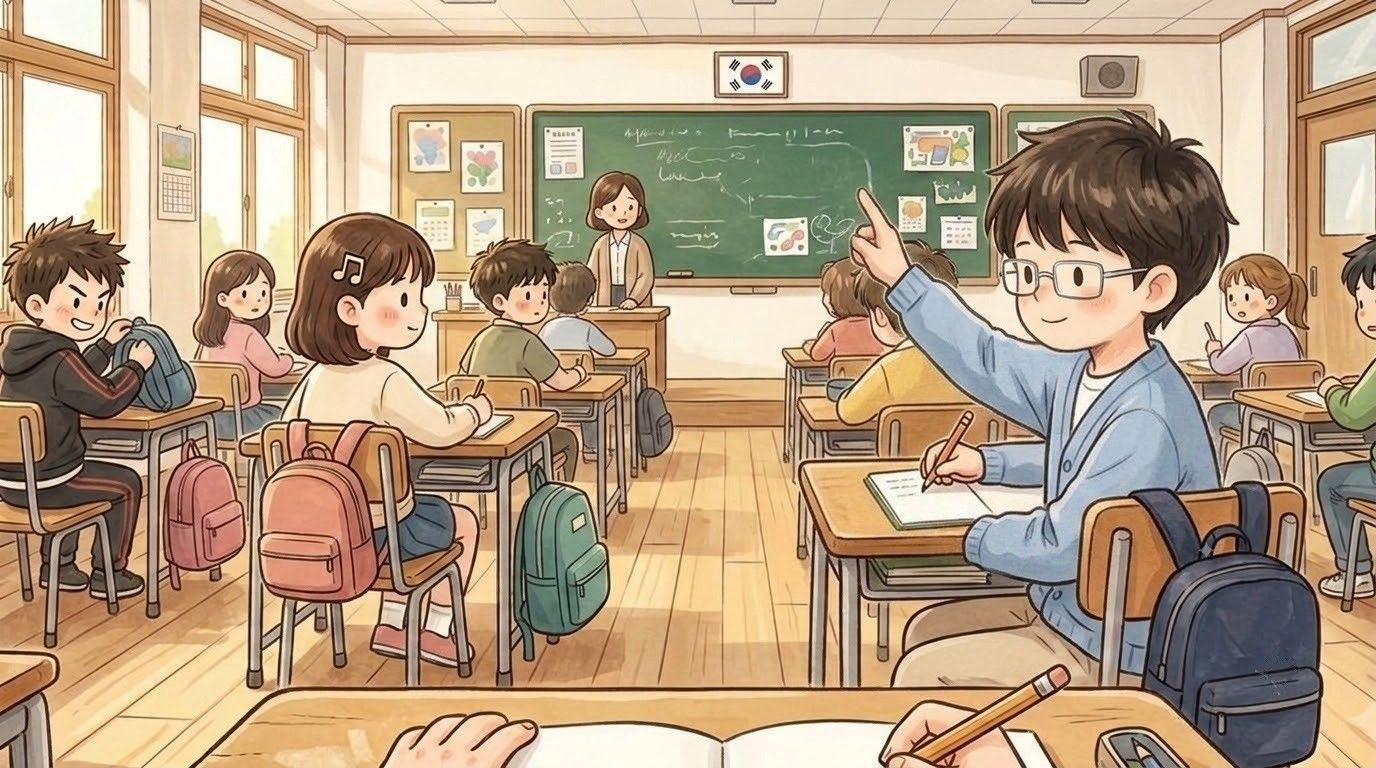
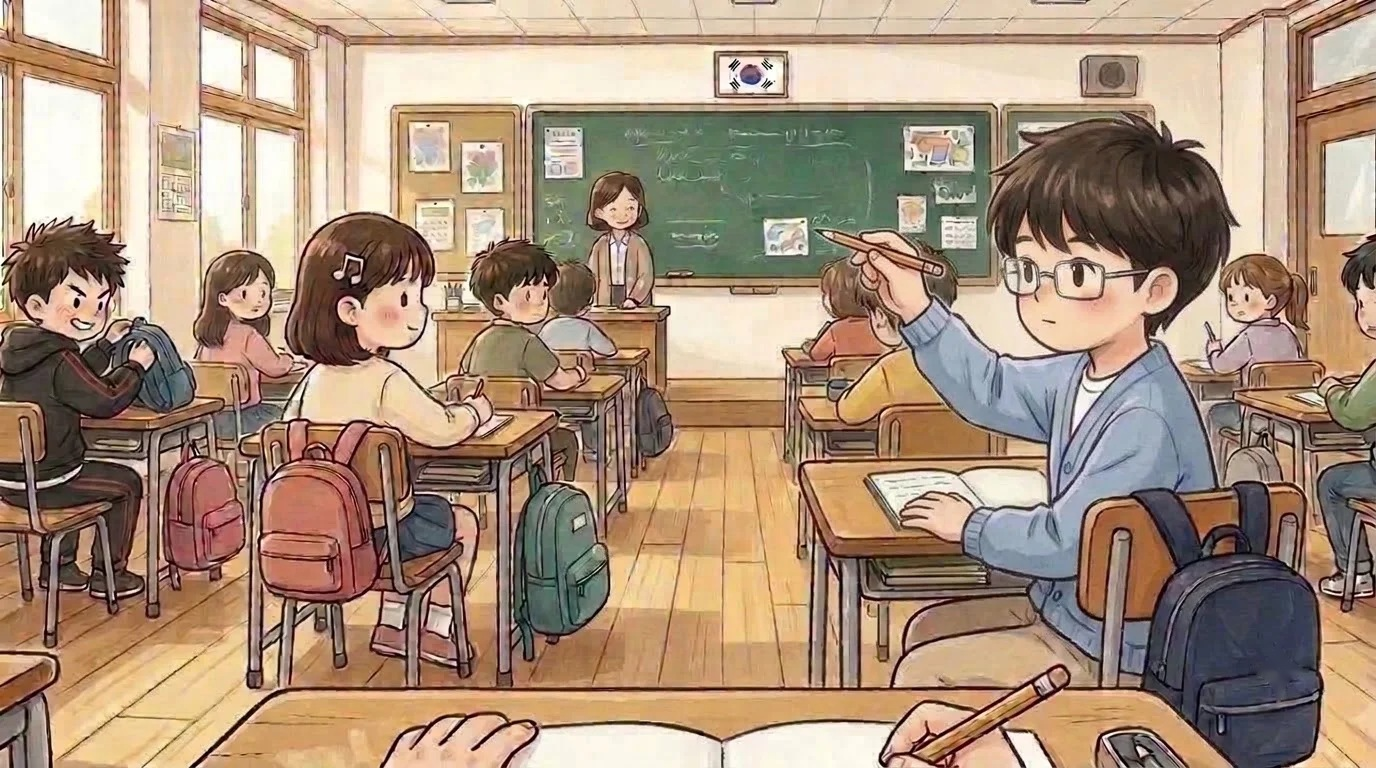
영민 1일차 팔 고침·선택지 A~D 그림

diff --git a/day2/ep_youngmin.js b/day2/ep_youngmin.js
@@ -38,8 +38,8 @@ EP.youngmin=[
  ask:'어떻게 할까?',
  choices:[
   {k:'A',text:'{@blackboard} 앞으로 가서 「지호야, 잠깐! 영민이 아직 써. 오른쪽은 남겨 줘.」 하고 말한다.',pts:{youngmin:1},r:[
-   ['me','smile','지호야, 잠깐!'],
-   ['nar','','지호가 {@eraser|를} 든 채 돌아봤다.'],
+   ['me','smile','지호야, 잠깐!'],{pic:'youngmin_01e'},
+   {pic:'youngmin_01_A'},['nar','','지호가 {@eraser|를} 든 채 돌아봤다.'],
    ['me','smile','영민이 아직 쓰고 있어. 오른쪽 두 줄은 남겨 줘.'],
    ['jiho','smile','아, 나 축구 가야 되는데…….'],
    ['me','smile','왼쪽은 다 지워도 돼. 오른쪽만.'],
@@ -48,14 +48,14 @@ EP.youngmin=[
    ['nar','','영민이가 나를 봤다. 그리고 {@bag}에서 {@notice_book|을} 다시 꺼냈다. 천천히.'],
    ['nar','','영민이 손가락이 다시 허공에서 줄을 짚었다. {@pencil|이} 움직였다.'],
    ['think','smile','(지호가 ‘빨리 써’ 해 버렸어. 나는 그 말은 안 해야지.)']]},
-  {k:'B',text:'끼어들면 영민이가 더 창피할 것 같아서, 못 본 척 내 {@bag|을} 싼다.',pts:{youngmin:0},r:[
-   ['nar','','나는 영민이 쪽을 안 봤다. 필통을 넣고, 교과서를 넣었다.'],
+  {k:'B',text:'끼어들면 영민이가 더 창피할 것 같아서, 못 본 척 내 {@bag|을} 싼다.',pts:{youngmin:0},r:[{pic:'youngmin_01_B'},
+   ['nar','','나는 영민이 쪽을 안 봤다. 필통을 넣고, 교과서를 넣었다.'],{pic:'youngmin_01f'},
    ['nar','','지호가 셋째 줄까지 지웠다. 그때 운동장에서 누가 지호를 불렀다. 지호는 칠판지우개를 내려놓고 뛰어나갔다. 오른쪽 두 줄은 남아 있었다.'],
    ['nar','','영민이는 한참 가만히 앉아 있었다. 그러다 {@notice_book|을} 들고 선생님 {@desk|으로} 갔다. 선생님이 준비물을 쪽지에 적어 주셨다.'],
    ['think','smile','(영민이 혼자 갔어. 나는 ‘잠깐만’ 한 마디도 안 했어.)']]},
   {k:'C',text:'내 {@notice_book|을} 영민이 {@desk}에 펼쳐 두고 「이거 보고 써. 나 {@bag} 싸는 동안.」 하고 말한다.',pts:{youngmin:2},r:[
-   ['nar','','나는 내 {@notice_book|을} 영민이 {@desk} 끝에 펼쳐 놓았다.'],
-   ['me','smile','{@blackboard} 지워져도 이거 보고 써. 나 {@bag} 싸는 동안.'],
+   ['nar','','나는 내 {@notice_book|을} 영민이 {@desk} 끝에 펼쳐 놓았다.'],{pic:'youngmin_01g'},
+   {pic:'youngmin_01_C'},['me','smile','{@blackboard} 지워져도 이거 보고 써. 나 {@bag} 싸는 동안.'],
    ['youngmin','surprised','……네 거?'],
    ['me','surprised','응. 글씨는 좀 삐뚤어. 읽을 수 있어?'],
    ['nar','','영민이가 내 {@notice_book|을} 봤다. 손가락으로 넷째 줄을 짚었다.'],
@@ -64,8 +64,8 @@ EP.youngmin=[
    ['nar','','나는 {@bag|을} 쌌다. 필통, 교과서, 물통. 일부러 하나씩 천천히 넣었다. 영민이 쪽은 쳐다보지 않았다.'],
    ['nar','','지호는 셋째 줄까지 지우고 축구하러 뛰어나갔다.']]},
   {k:'D',text:'선생님께 가서 「영민이 아직 못 썼어요.」 하고 작게 말한다.',pts:{youngmin:2},r:[
-   ['nar','','나는 선생님 {@desk|으로} 갔다.'],
-   ['me','smile','선생님, 영민이 아직 못 썼어요.'],
+   ['nar','','나는 선생님 {@desk|으로} 갔다.'],{pic:'youngmin_01h'},
+   {pic:'youngmin_01_D'},['me','smile','선생님, 영민이 아직 못 썼어요.'],
    ['nar','','선생님: 「지호야, 잠깐. 오른쪽 두 줄은 남겨 둬요. {@notice_book|은} 꼴찌 같은 거 없어요. 각자 자기 걸 쓰는 거예요.」'],
    ['nar','','지호가 왼쪽만 지웠다. 영민이가 {@notice_book|을} 다시 꺼냈다. 고개를 숙이고 한 글자씩 썼다.'],
    ['think','smile','(선생님이 멈춰 주셨어. 영민이는 자기 손으로 쓰고 있어.)']]}],
@@ -129,7 +129,7 @@ EP.youngmin=[
  choices:[
   {k:'A',text:'예나 손에서 밥통을 잡고 「많이 주면 안 돼! {@fish} 배 아파!」 하고 말한다.',pts:{youngmin:0},r:[
    ['me','smile','예나야, 많이 주면 안 돼! {@fish} 배 아파!'],
-   ['nar','','나는 예나 손에 있던 밥통을 잡았다. 밥이 쏟아지기 직전이었다.'],
+   {pic:'youngmin_02_A'},['nar','','나는 예나 손에 있던 밥통을 잡았다. 밥이 쏟아지기 직전이었다.'],
    ['yena','surprised','앗! 왜 잡아? ……진짜?'],
    ['me','smile','응. 전에 다니던 학교에서 들었어. 조금만 줘야 해.'],
    ['nar','','내가 밥통을 기울여 조금 넣었다. 물고기들이 몰려왔다.'],
@@ -138,7 +138,7 @@ EP.youngmin=[
    ['think','sad','(밥은 조금만 들어갔어. 근데 예나 손에서 그냥 잡았어. 영민이가 당번인데, 내가 했어.)']]},
   {k:'B',text:'「예나야, 잠깐. 영민이가 말하고 있었어.」 하고, 영민이를 보고 기다린다.',pts:{youngmin:2},r:[
    ['me','smile','예나야, 잠깐. 영민이가 말하고 있었어.'],
-   ['yena','surprised','어? 아, 그래?'],
+   {pic:'youngmin_02_B'},['yena','surprised','어? 아, 그래?'],
    ['nar','','예나가 밥통을 든 채 멈췄다. 나는 영민이를 봤다. 그리고 아무 말도 안 하고 기다렸다.'],
    ['nar','','조용했다. 영민이가 입을 열었다가 닫았다. 다시 열었다.'],
    ['youngmin','smile','……통을 기울이는 게 아니라. 통 옆을…… 손가락으로 톡, 톡, 톡. 세 번. 그만큼만.'],
@@ -149,7 +149,7 @@ EP.youngmin=[
    ['nar','','예나가 밥통을 영민이에게 돌려줬다.']]},
   {k:'C',text:'교실 앞으로 가서 「선생님! 예나가 {@fish} 밥을 너무 많이 줘요!」 하고 말한다.',pts:{youngmin:2},r:[
    ['me','smile','선생님! 예나가 {@fish} 밥 너무 많이 줘요!'],
-   ['nar','','선생님: 「어머. 예나야, 그건 당번한테 물어보고 줘요. 영민이가 알아요.」'],
+   {pic:'youngmin_02_C'},['nar','','선생님: 「어머. 예나야, 그건 당번한테 물어보고 줘요. 영민이가 알아요.」'],
    ['yena','surprised','아…… 일러?'],
    ['nar','','선생님: 「이른 게 아니에요. {@fish} 지켜 준 거예요. 영민아, 어떻게 주는지 보여 줄래요?」'],
    ['nar','','예나가 입을 삐죽 내밀고 밥통을 영민이에게 줬다. 얼굴이 빨개져 있었다.'],
@@ -158,7 +158,7 @@ EP.youngmin=[
    ['think','smile','(밥은 제대로 들어갔어. 영민이가 직접 보여 줬어.)']]},
   {k:'D',text:'영민이 옆에 서서 「영민아, 한 번만 보여 줄래? 우리 보고 따라 할게.」 하고 묻는다.',pts:{youngmin:1},r:[
    ['me','smile','영민아, 한 번만 보여 줄래? 우리 보고 따라 할게.'],
-   ['yena','smile','아, 보여 줘! 보여 줘!'],
+   {pic:'youngmin_02_D'},['yena','smile','아, 보여 줘! 보여 줘!'],
    ['nar','','예나가 밥통을 내밀었다. 영민이가 받았다. 어항 위에 밥통을 들었다.'],
    ['nar','','영민이가 밥통 옆을 손가락으로 쳤다. 톡. 톡. 톡. 밥 가루가 조금씩 물 위에 떨어졌다.'],
    ['youngmin','smile','……세 번. 이만큼.'],
@@ -229,7 +229,7 @@ EP.youngmin=[
  choices:[
   {k:'A',text:'「하은아, 그거 영민이 거야. 영민이한테 줘. 대신 내가 물건 이름을 천천히 불러 줄게.」 하고 말한다.',pts:{youngmin:2},r:[
    ['me','smile','하은아, 그거 영민이 기록이야. 영민이한테 줘.'],
-   ['haeun','smile','늦잖아.'],
+   {pic:'youngmin_03_A'},['haeun','smile','늦잖아.'],
    ['me','smile','대신 내가 물건 이름을 불러 줄게. 준호가 대 보면, 내가 하나씩. 영민이는 쓰기만 하면 돼.'],
    ['nar','','하은이가 잠깐 나를 봤다. 그리고 기록지를 영민이 앞에 내려놓았다.'],
    ['haeun','sad','……그래. 그게 낫겠네. 나도 손이 먼저 갔어.'],
@@ -241,14 +241,14 @@ EP.youngmin=[
    ['junho','smile','……아, 답답해. 근데 알았어. 동전!']]},
   {k:'B',text:'「……빨리 끝나면 좋지, 뭐.」 하고 하은이가 쓰게 그냥 둔다.',pts:{youngmin:0},r:[
    ['me','smile','……빨리 끝나면 좋지, 뭐.'],
-   ['haeun','surprised','그치?'],
+   {pic:'youngmin_03_B'},['haeun','surprised','그치?'],
    ['nar','','준호가 물건 이름을 부르고, 하은이가 혼자 받아 적었다. 금방 끝났다. 우리 모둠도 낚싯대를 받았다.'],
    ['junho','smile','아싸! 낚시다!'],
    ['nar','','영민이는 그동안 아무것도 안 했다. {@pencil|은} {@desk} 위에 그대로 있었다.'],
    ['think','smile','(빨리 끝났어. 근데 뒤쪽은 영민이 글씨가 하나도 없어.)']]},
   {k:'C',text:'준호에게 「준호야, 그렇게 말하지 마! 영민이 열심히 쓰고 있었잖아!」 하고 말한다.',pts:{youngmin:1},r:[
    ['me','smile','준호야, 그렇게 말하지 마! 영민이 열심히 쓰고 있었잖아!'],
-   ['junho','smile','아니, 근데 진짜 늦잖아. 다른 모둠 다 갔어.'],
+   {pic:'youngmin_03_C'},['junho','smile','아니, 근데 진짜 늦잖아. 다른 모둠 다 갔어.'],
    ['me','smile','그래도 그 말은 아니야.'],
    ['junho','sad','……알았어. 미안.'],
    ['nar','','준호가 입을 삐죽 내밀었다. 그런데 기록지는 아직 하은이 앞에 있었다. 하은이는 계속 썼다.'],
@@ -256,7 +256,7 @@ EP.youngmin=[
    ['think','smile','(준호는 멈췄어. 근데 영민이는 아직 손을 놓고 있어.)']]},
   {k:'D',text:'손을 들고 「선생님, 저희 기록 쓰는 중이에요. 낚시랑 기록, 따로 해도 돼요?」 하고 묻는다.',pts:{youngmin:2},r:[
    ['me','smile','선생님!'],
-   ['nar','','선생님이 우리 모둠으로 오셨다.'],
+   {pic:'youngmin_03_D'},['nar','','선생님이 우리 모둠으로 오셨다.'],
    ['me','surprised','저희 모둠 아직 기록 쓰는 중이에요. 낚싯대 먼저 받고, 기록은 쓰면서 해도 돼요?'],
    ['nar','','선생님: 「음……. 기록을 꼭 먼저 다 써야 하는 건 아니에요. 좋아요. 기록 쓰면서 낚시해도 돼요.」'],
    ['nar','','선생님이 반 전체를 보며 말씀하셨다.'],

diff --git a/index.html b/index.html
@@ -119,14 +119,14 @@ body,button{word-break:keep-all;overflow-wrap:break-word}
 <div id="fader"></div>
 <script>
 // same address, newest version: if the page this phone has kept is older than the one online, fetch the new one and reopen
-const BUILD='1114080929';
+const BUILD='1114082141';
 try{fetch(location.pathname,{cache:'no-store'}).then(r=>r.text()).then(t=>{const m=t.match(/const BUILD='(\d+)'/);if(m&&m[1]!==BUILD&&sessionStorage.getItem('upd')!==m[1]){sessionStorage.setItem('upd',m[1]);fetch(location.pathname,{cache:'reload'}).then(()=>location.reload())}}).catch(()=>{})}catch(e){}
 </script>
-<script src="i18n.js?v=1114080929"></script>
-<script src="i18n_prologue_v2.js?v=1114080929"></script>
-<script src="day2/i18n_engine.js?v=1114080929"></script>
-<script src="day2/data.js?v=1114080929"></script>
-<script src="day3/data.js?v=1114080929"></script>
+<script src="i18n.js?v=1114082141"></script>
+<script src="i18n_prologue_v2.js?v=1114082141"></script>
+<script src="day2/i18n_engine.js?v=1114082141"></script>
+<script src="day2/data.js?v=1114082141"></script>
+<script src="day3/data.js?v=1114082141"></script>
 <script>
 // ---------- data ----------
 const MW=1672,MH=941,KID=180;
@@ -577,37 +577,37 @@ function pickHero(){const m=document.getElementById('modal'),c=document.getEleme
  c.innerHTML=`<h2>${tr('전학생 반장되기')}</h2><p>${tr('한국말이 아직 서툰 전학생,<br>반장 선거에 나가다.')}</p><p style="margin-top:14px">${tr('누구로 할까요?')}</p>${(()=>{const s=loadSave();return s&&s.day>=2&&s.mode===UI+'-'+LANG?`<p><button class="big" id="cont">${tr('{n}일차부터 이어 하기').replace('{n}',s.day)}</button></p>`:''})()}<div class="pick heroes"><button data-h="hero_f"><img src="faces/hero_f_smile.jpg" alt="여자 주인공">${heroName(1)}</button><button data-h="hero_m"><img src="faces/hero_m_smile.jpg" alt="남자 주인공">${heroName(0)}</button></div>`;
  m.classList.add('on');{const cb=document.getElementById('cont');if(cb)cb.onclick=()=>{const s=loadSave();HERO=s.hero;Object.assign(HEART,s.heart||{});(s.found||[]).forEach(k=>FOUND.add(k));HEART_D1={...HEART};chime();(typeof contGame==='function'?contGame(s):startDay(Math.min(s.day,Object.keys(window.D3||{}).length?3:2)))}}c.querySelectorAll('.pick button').forEach(b=>b.onclick=()=>{HERO=b.dataset.h;m.classList.remove('on');chime();bgm('day');load('home_am');say([['nar','','이사 온 다음 날 아침. 아직 풀지 못한 상자들이 쌓여 있다.'],['think','sad','(오늘부터 새 학교야. 여기 말도 아직 서툰데…….)'],['think','smile','({m}한테 인사하고 학교 가야지.)']],morning)})}
 </script>
-<script src="day2/engine.js?v=1114080929"></script>
-<script src="day2/ep_minho.js?v=1114080929"></script>
-<script src="day2/meet.js?v=1114080929"></script>
-<script src="day2/ep_sua.js?v=1114080929"></script>
-<script src="day2/ep_hangyeol.js?v=1114080929"></script>
-<script src="day2/ep_siwoo.js?v=1114080929"></script>
-<script src="day2/ep_haram.js?v=1114080929"></script>
-<script src="day2/ep_jiho.js?v=1114080929"></script>
-<script src="day2/ep_hyeeun.js?v=1114080929"></script>
-<script src="day2/ep_haneul.js?v=1114080929"></script>
-<script src="day2/ep_junho.js?v=1114080929"></script>
-<script src="day2/ep_yuna.js?v=1114080929"></script>
-<script src="day2/ep_yena.js?v=1114080929"></script>
-<script src="day2/ep_haeun.js?v=1114080929"></script>
-<script src="day2/ep_youngmin.js?v=1114080929"></script>
-<script src="day2/ep_seah.js?v=1114080929"></script>
-<script src="day2/ep_jihoon.js?v=1114080929"></script>
-<script src="words_ja_ru.js?v=1114080929"></script>
-<script src="day2/mybag.js?v=1114080929"></script>
-<script src="day2/wordpics.js?v=1114080929"></script>
-<script src="day2/spots.js?v=1114080929"></script>
-<script src="day2/textfit.js?v=1114080929"></script>
-<script src="day2/tester.js?v=1114080929"></script>
-<script src="day2/ux.js?v=1114080929"></script>
-<script src="day2/tapword.js?v=1114080929"></script>
-<script src="day2/review.js?v=1114080929"></script>
-<script src="day2/plane.js?v=1114080929"></script>
-<script src="day2/bubble.js?v=1114080929"></script>
-<script src="day2/ep_ending.js?v=1114080929"></script>
-<script src="day2/ending.js?v=1114080929"></script>
-<script src="day2/stats.js?v=1114080929"></script>
+<script src="day2/engine.js?v=1114082141"></script>
+<script src="day2/ep_minho.js?v=1114082141"></script>
+<script src="day2/meet.js?v=1114082141"></script>
+<script src="day2/ep_sua.js?v=1114082141"></script>
+<script src="day2/ep_hangyeol.js?v=1114082141"></script>
+<script src="day2/ep_siwoo.js?v=1114082141"></script>
+<script src="day2/ep_haram.js?v=1114082141"></script>
+<script src="day2/ep_jiho.js?v=1114082141"></script>
+<script src="day2/ep_hyeeun.js?v=1114082141"></script>
+<script src="day2/ep_haneul.js?v=1114082141"></script>
+<script src="day2/ep_junho.js?v=1114082141"></script>
+<script src="day2/ep_yuna.js?v=1114082141"></script>
+<script src="day2/ep_yena.js?v=1114082141"></script>
+<script src="day2/ep_haeun.js?v=1114082141"></script>
+<script src="day2/ep_youngmin.js?v=1114082141"></script>
+<script src="day2/ep_seah.js?v=1114082141"></script>
+<script src="day2/ep_jihoon.js?v=1114082141"></script>
+<script src="words_ja_ru.js?v=1114082141"></script>
+<script src="day2/mybag.js?v=1114082141"></script>
+<script src="day2/wordpics.js?v=1114082141"></script>
+<script src="day2/spots.js?v=1114082141"></script>
+<script src="day2/textfit.js?v=1114082141"></script>
+<script src="day2/tester.js?v=1114082141"></script>
+<script src="day2/ux.js?v=1114082141"></script>
+<script src="day2/tapword.js?v=1114082141"></script>
+<script src="day2/review.js?v=1114082141"></script>
+<script src="day2/plane.js?v=1114082141"></script>
+<script src="day2/bubble.js?v=1114082141"></script>
+<script src="day2/ep_ending.js?v=1114082141"></script>
+<script src="day2/ending.js?v=1114082141"></script>
+<script src="day2/stats.js?v=1114082141"></script>
 <script>
 // the goal shows big for a few seconds, then folds into a small pill (tap it to open it again)
 {const g=document.getElementById('goal');let t=null;const big=()=>{g.classList.remove('mini');clearTimeout(t);t=setTimeout(()=>g.classList.add('mini'),4000)};
